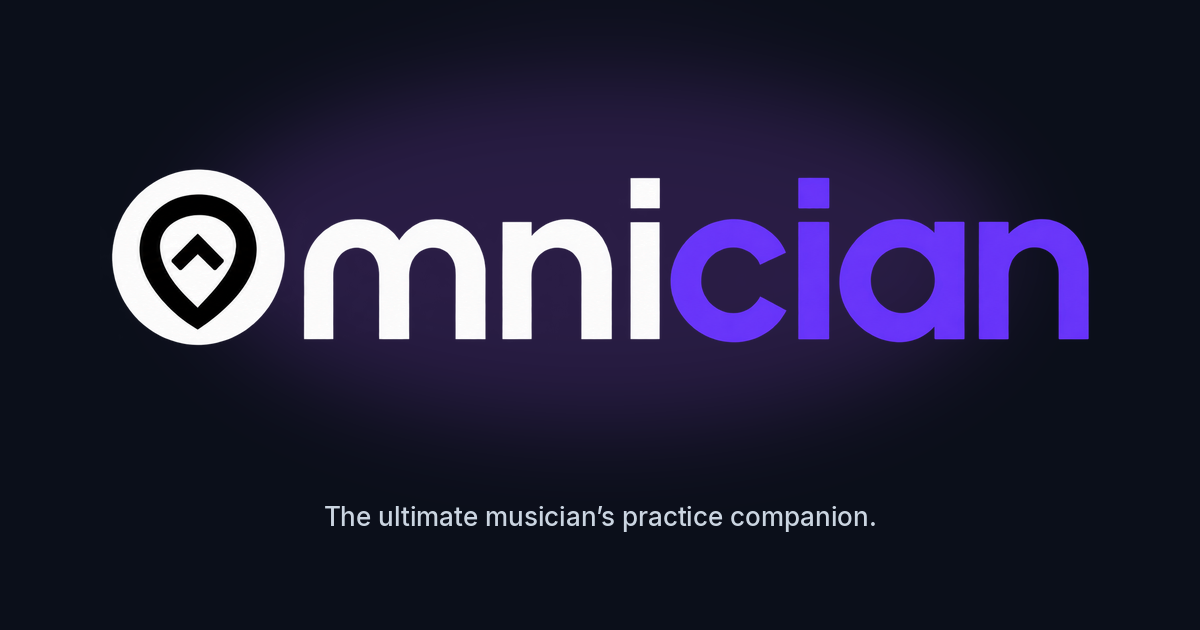
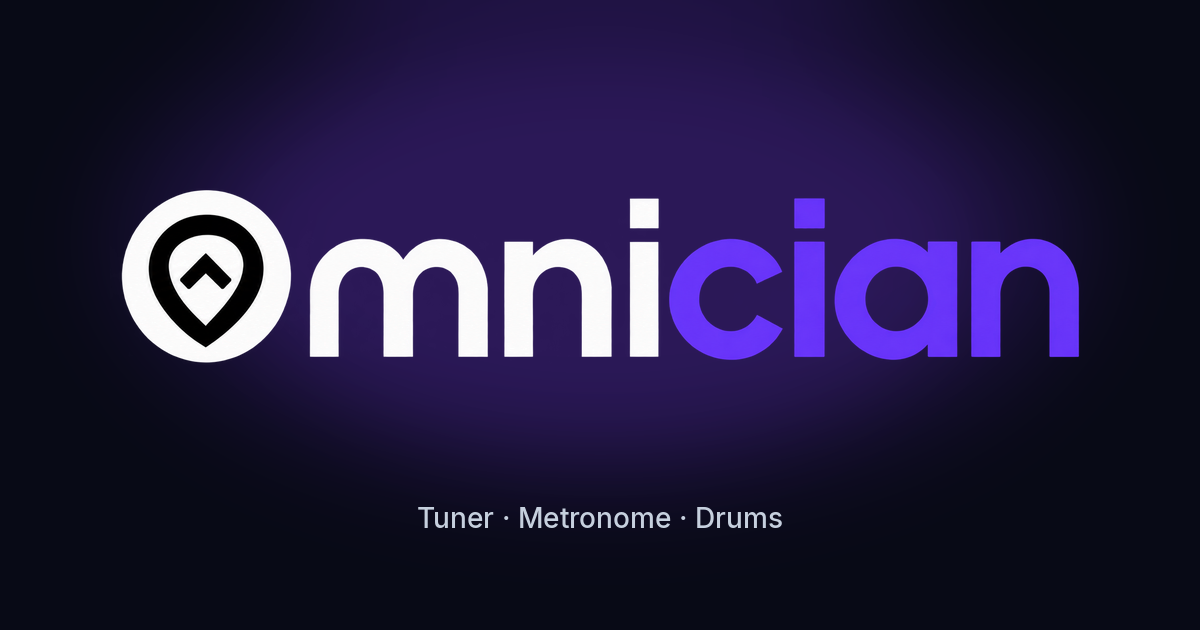
Use the approved 1200×630 social card and iMessage meta tags.

Changed region(s): [[0.0925, 0.2714, 0.925, 0.7238], [0.2467, 0.0, 0.7708, 0.2413], [0.2775, 0.7841, 0.74, 0.8444]]

diff --git a/index.html b/index.html
@@ -14,7 +14,7 @@
     <meta name="theme-color" content="#0B0F1A" />
     <meta
       name="description"
-      content="The ultimate musician’s practice companion."
+      content="Free guitar tuner, metronome and drum machine."
     />
     <meta property="og:type" content="website" />
     <meta property="og:site_name" content="Omnician" />
@@ -22,7 +22,7 @@
     <meta property="og:title" content="Omnician" />
     <meta
       property="og:description"
-      content="The ultimate musician’s practice companion."
+      content="Free guitar tuner, metronome and drum machine."
     />
     <meta property="og:image" content="https://omnician.app/brand/og-card.png" />
     <meta property="og:image:width" content="1200" />
@@ -32,7 +32,7 @@
     <meta name="twitter:title" content="Omnician" />
     <meta
       name="twitter:description"
-      content="The ultimate musician’s practice companion."
+      content="Free guitar tuner, metronome and drum machine."
     />
     <meta name="twitter:image" content="https://omnician.app/brand/og-card.png" />
     <link rel="preconnect" href="https://fonts.googleapis.com" />

diff --git a/README.md b/README.md
@@ -134,7 +134,7 @@ npm run deploy
 
 That script builds the app, then runs `wrangler deploy`. It needs `CLOUDFLARE_API_TOKEN` and `CLOUDFLARE_ACCOUNT_ID`. Do not put those values in the repo. They belong in Cursor **Cloud Agents → Secrets** (token as a **Runtime Secret**, account ID as an **Environment Variable**). After a change lands on `main`, run `npm run deploy` so **omnician.app** updates. Do not add a `public/_redirects` SPA rewrite — Wrangler already serves `/tuner` and `/rhythm` with `not_found_handling: "single-page-application"`.
 
-iMessage and other link previews use `https://omnician.app/brand/og-card.png` (1200×630). The page title is Omnician; the description is *The ultimate musician’s practice companion.*
+iMessage and other link previews use `https://omnician.app/brand/og-card.png` (1200×630). The page title is Omnician; the description is *Free guitar tuner, metronome and drum machine.*
 
 ---
 
